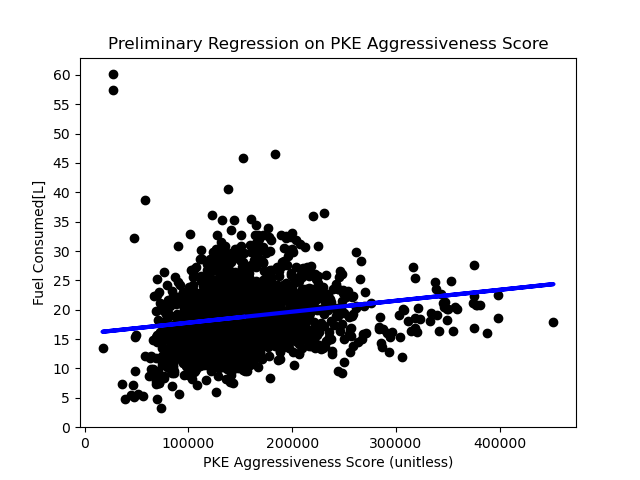
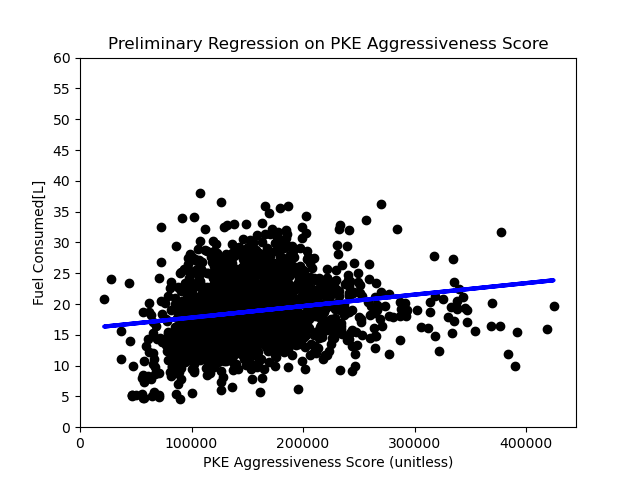
updated plots

diff --git a/Processing/simple_regression.py b/Processing/simple_regression.py
@@ -47,16 +47,16 @@ train2_score = reg2.score(X2_train, y_train)
 val1_score = reg1.score(X1_val, y_val)
 val2_score = reg2.score(X2_val, y_val)
 
-y1_pred = reg1.predict(X1_test)
-y2_pred = reg2.predict(X2_test)
+y1_pred = reg1.predict(X1_val)
+y2_pred = reg2.predict(X2_val)
 
 print('Train Scores')
 print(f'PKE: {train1_score}\tPF: {train2_score}')
 print('Val Scores')
 print(f'PKE: {val1_score}\tPF: {val2_score}')
 
-plt.scatter(X1_test, y_test,color='black')
-plt.plot(X1_test, y1_pred, color='blue', linewidth=3)
+plt.scatter(X1_val, y_val, color='black')
+plt.plot(X1_val, y1_pred, color='blue', linewidth=3)
 
 plt.xticks((np.arange(0, 500000, 100000)))
 plt.yticks((np.arange(0, 65, 5)))
@@ -67,8 +67,8 @@ plt.title('Preliminary Regression on PKE Aggressiveness Score')
 plt.savefig('pke_simplereg.png')
 
 plt.clf()
-plt.scatter(X2_test, y_test,color='black')
-plt.plot(X2_test, y2_pred, color='blue', linewidth=3)
+plt.scatter(X2_val, y_val, color='black')
+plt.plot(X2_val, y2_pred, color='blue', linewidth=3)
 
 plt.xticks((np.arange(0, 2000, 200)))
 plt.yticks((np.arange(0, 65, 5)))
